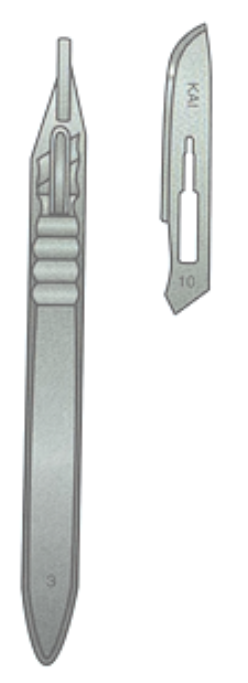
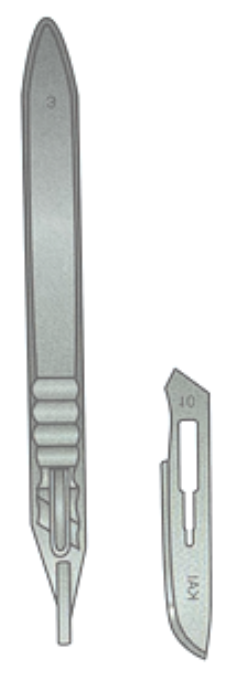
Updates from Overleaf

diff --git a/keynote_20220407.tex b/keynote_20220407.tex
@@ -57,6 +57,25 @@ parskip=half-, % Paragraphs separated by half a line
 %\PassOptionsToPackage{comma,authoryear,square}{natbib}
 
 \usepackage{wrapfig} % for wrapfigure, text wrapping figure
+\newenvironment{WrapText1}[3][r]
+{\wrapfigure[#2]{#1}{#3}}
+{\endwrapfigure}
+\newenvironment{WrapText2}[3][l]
+{\wrapfigure[#2]{#1}{#3}}
+{\endwrapfigure}
+\newcommand{\wrapr}[6]{
+\begin{minipage}{\linewidth}\mbox{}\\
+\vspace{#1}
+\begin{WrapText1}{#2}{#3}
+\vspace{#4}#5\end{WrapText1}#6
+\end{minipage}}
+
+\newcommand{\wrapl}[6]{
+\begin{minipage}{\linewidth}\mbox{}\\
+\vspace{#1}
+\begin{WrapText2}{#2}{#3}
+\vspace{#4}#5\end{WrapText2}#6
+\end{minipage}}
 
 \usepackage{todonotes}
 
@@ -686,7 +705,7 @@ Seldin periosteal elevator\\
 
 \clearpage
 %%
-\begin{minipage}[c]{0.65\linewidth}
+\begin{minipage}[c]{0.6\linewidth}
 
 \begin{outline}
 \1 biopsy (BYE-op-see = small tissue incision)
@@ -705,12 +724,13 @@ Seldin periosteal elevator\\
         \3 melanoma (mel-ah-NO-mah)
 \end{outline}
 \end{minipage}
-\begin{minipage}[c]{0.35\linewidth}
+\begin{minipage}[c]{0.4\linewidth}
 
     \begin{tikzpicture}
-    \node[anchor=south west,inner sep=0] (image) at (0.0,0) {\includegraphics[width=8.0cm]{Biopsy.pdf}};
-    \node[anchor=south west,inner sep=0] (image) at (0.5 
-    ,-1.7) {\includegraphics[width=1.0cm]{no10.png}};
+    \node[anchor=south west,inner sep=0] (image) at (0
+    ,2.4) {\includegraphics[width=1.2cm]{no10.png}};
+    \node[anchor=south west,inner sep=0] (image) at (0,-1.4) {\includegraphics[width=7.0cm]{Biopsy.pdf}};
+
     \end{tikzpicture}
 \end{minipage}
 
@@ -719,6 +739,42 @@ Seldin periosteal elevator\\
 %%
 
 \subsection{Procedures Involved in Minor Bone Surgery}
+
+%      \begin{wrapfigure}[10]{r}{0.3\textwidth}
+%      \includegraphics[width=6.5cm]{torus.png}
+%      \end{wrapfigure}
+
+% https://tex.stackexchange.com/questions/59101/will-it-ever-be-possible-to-use-wrapfig-with-an-enumerate-or-itemize-environment
+% wrapl or wrapr{vertical adjustment of text}{number of lines}{horizontal space needed for the image}{vertical adjustment of image}{IMAGE}{TEXT}
+% - is up, + is down
+
+\wrapr{-10mm}{7}{6cm}{+16mm}
+{\includegraphics[width=6cm]{torus.png}}
+{% text
+\begin{outline}
+\1 osteoplasty = OSS-tee-oh-plas-tee = forming or recontouring bones)
+\1 alveolectomy (al-vee-oh-LECK-toe-mee)
+\1 bone cutting for
+%\end{outline}
+%\begin{outline}
+    \2 exostosis (ecks-ahs-TOH-sis = bony outgrowth)
+    \2 torus (TORE-us = rounded elevation)
+        \3 torus mandibularis (man-dib-u- LAIR-iss)
+        \3 torus palatinus (pal-ah-TEEN-us
+\1 enucleation or decompression
+    \2 cysts (SISTs = abnormal, closed-walled sac present in bone)
+    \3 dentigerous (den-TIJ-er-us): cystic sac containing a crown of tooth
+    \3 radicular (rah-DICK-you-lar): cyst located at the apex of a tooth root
+\end{outline}
+} % end of text
+
+%\end{minipage}
+\clearpage
+%%
+
+
+\subsection{Surgical Procedures Involved in Fracture Repair}
+
 
 \begin{minipage}[c]{0.45\linewidth}
 
@@ -733,12 +789,6 @@ Seldin periosteal elevator\\
 \end{outline}
 \end{minipage}
 
-
-\clearpage
-%%
-\clearpage
-%%
-\subsection{Surgical Procedures Involved in Fracture Repair}
 
 \clearpage
 %%
